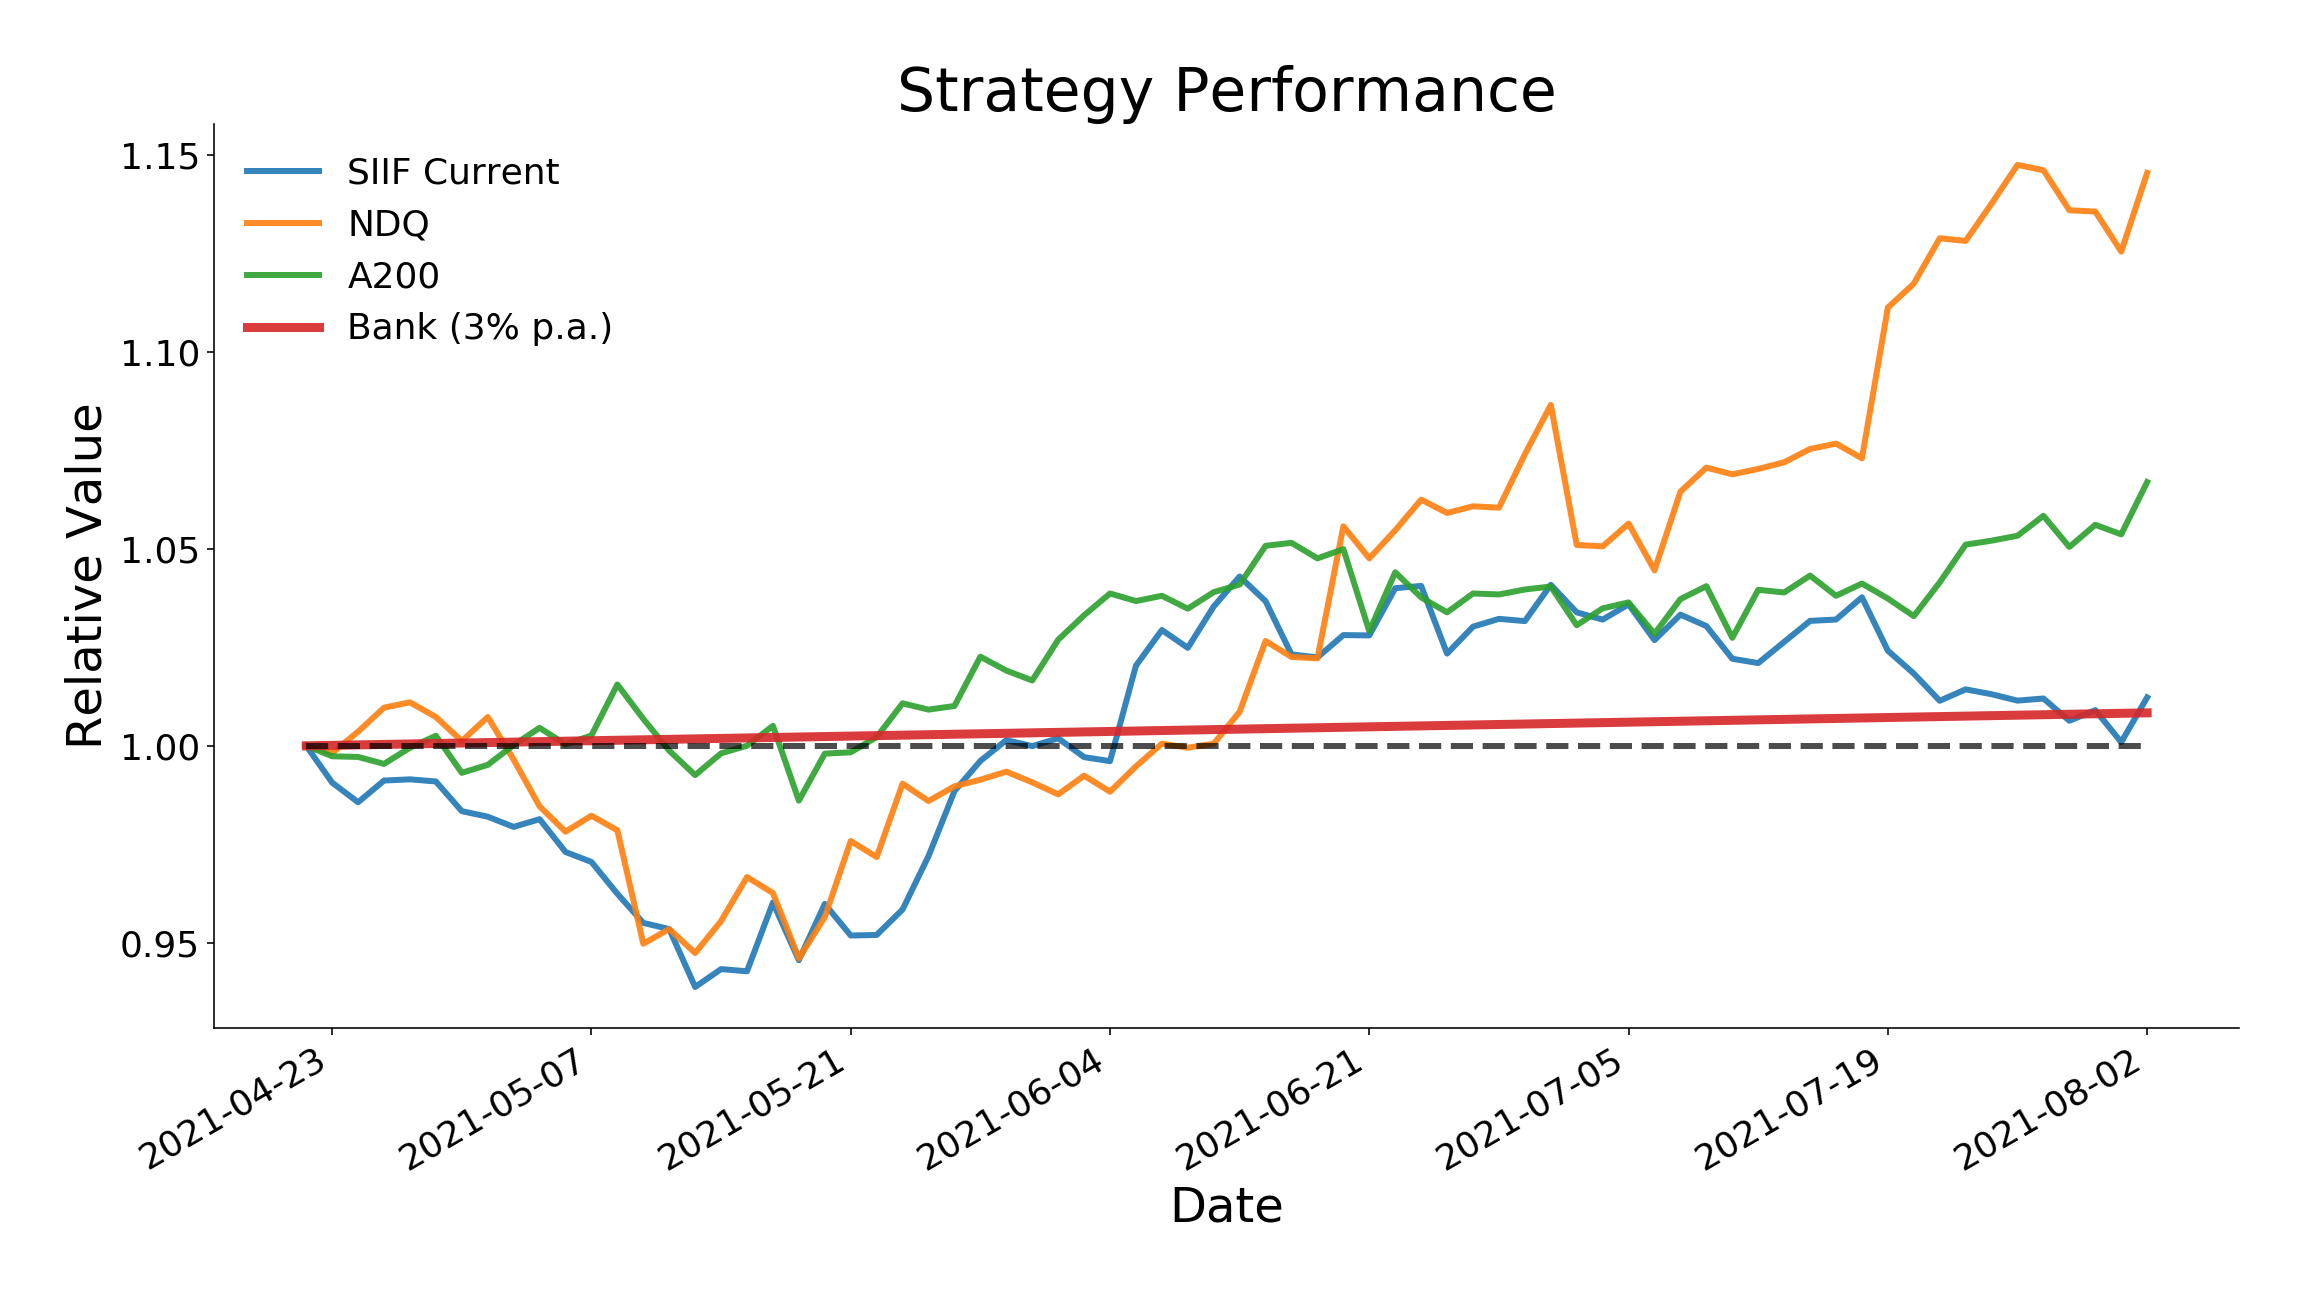
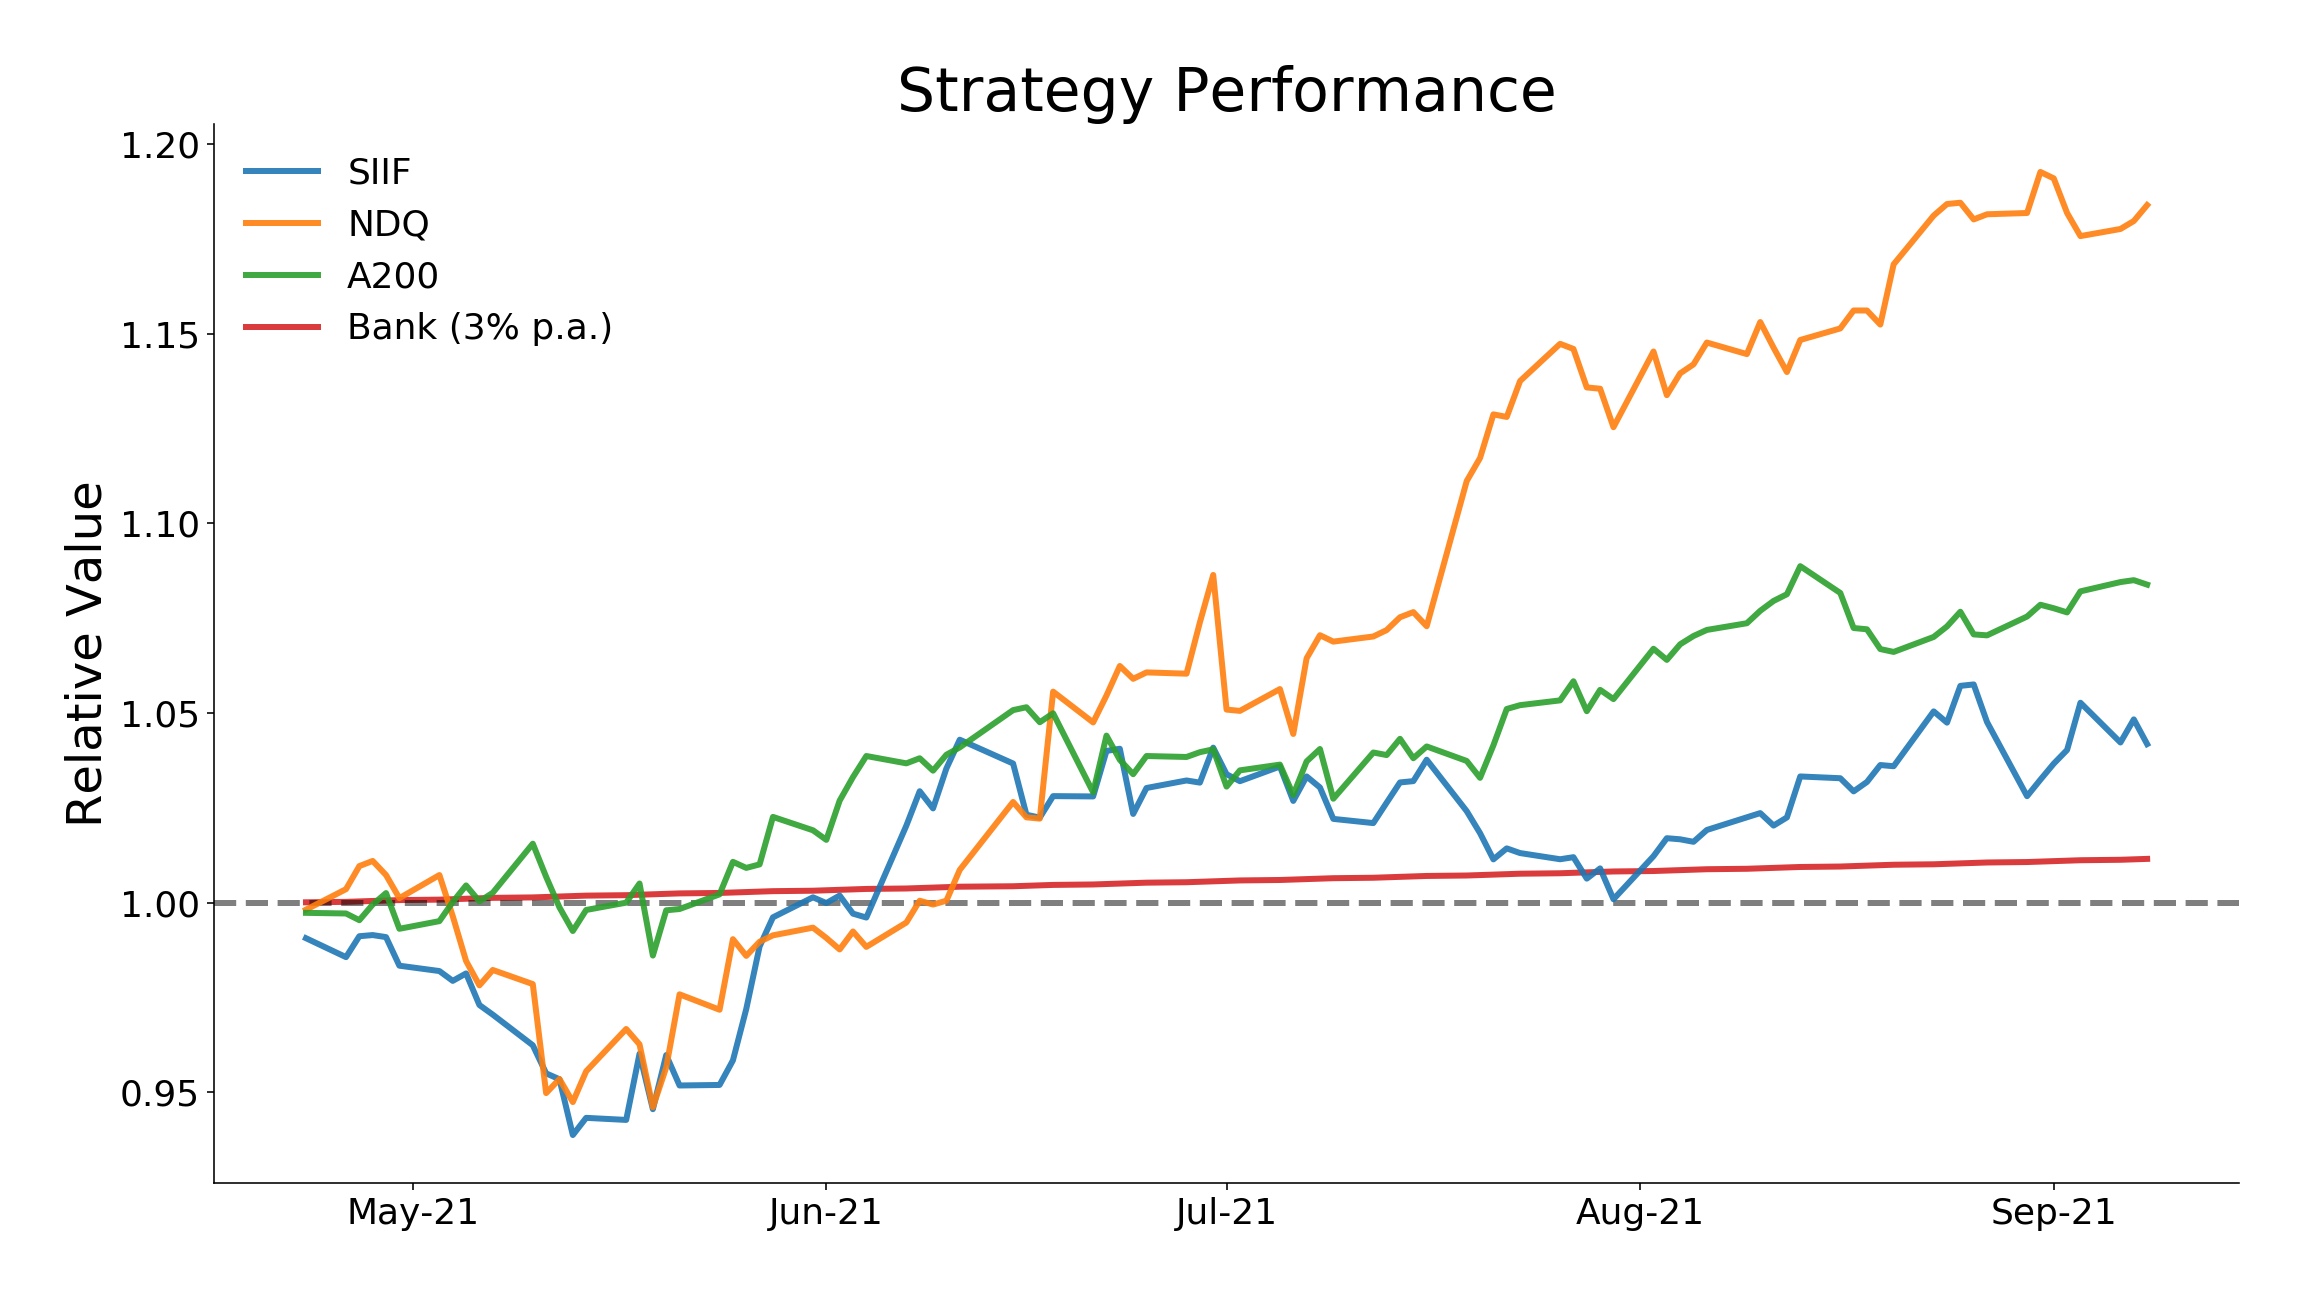
fixed daily.py error

diff --git a/daily.py b/daily.py
@@ -2,10 +2,11 @@ import matplotlib.pyplot as plt
 import seaborn as sns
 import datetime as dt
 from matplotlib.ticker import FuncFormatter
+import matplotlib.dates as mdates
 import pandas as pd
 from yahooquery import Ticker
 from tqdm import tqdm
-from siif_utils import send_email, attach_file, attach_image, log, TEST, PROD, SIIF, equidate_ax, TOMORROW
+from siif_utils import send_email, attach_file, attach_image, log, TEST, PROD, SIIF, TOMORROW
 import warnings
 warnings.filterwarnings("ignore")
 from time import sleep
@@ -78,7 +79,8 @@ def plot_shares(daily, filename, save=False, scale=1, show=False):
     ax.set_ylabel('Relative Value')
     ax.set_xlim(min(x) - 0.03*len(x), max(x) + 0.15*len(x))
     plt.legend(frameon=False, fontsize=SMALL, loc='right')
-    equidate_ax(fig, ax, daily.index)
+    plt.gca().xaxis.set_major_formatter(mdates.DateFormatter('%d-%m')) 
+    plt.gca().xaxis.set_major_locator(mdates.DayLocator(interval=1)) 
     if save:
         plt.savefig('./images/'+filename+'.png', dpi=scale*2*fig.dpi)
     if show:
@@ -158,7 +160,7 @@ for i, row in ANALYSTS.iterrows():
         pct_change = 100 * (daily[code].iloc[-1] / daily[code].iloc[-2] - 1)
         if abs(pct_change) > float(row['sensitivity']):
             daily_changes.append([code, pct_change])
-            
+    
     if not daily_changes:
         continue
         

diff --git a/siif_utils.py b/siif_utils.py
@@ -267,7 +267,7 @@ def plot_shares(comp, filename='single_stocks', save=False, scale=1):
     if save:
         plt.savefig('./images/'+filename+'.png', dpi=scale*2*fig.dpi)
     plt.show()
-    
+        
 ################################ Modern Portfolio Theory ################################
     
 def mean_variance_optimisation(returns, b_val=0.1, risk_free=False, interest_rate=0):
